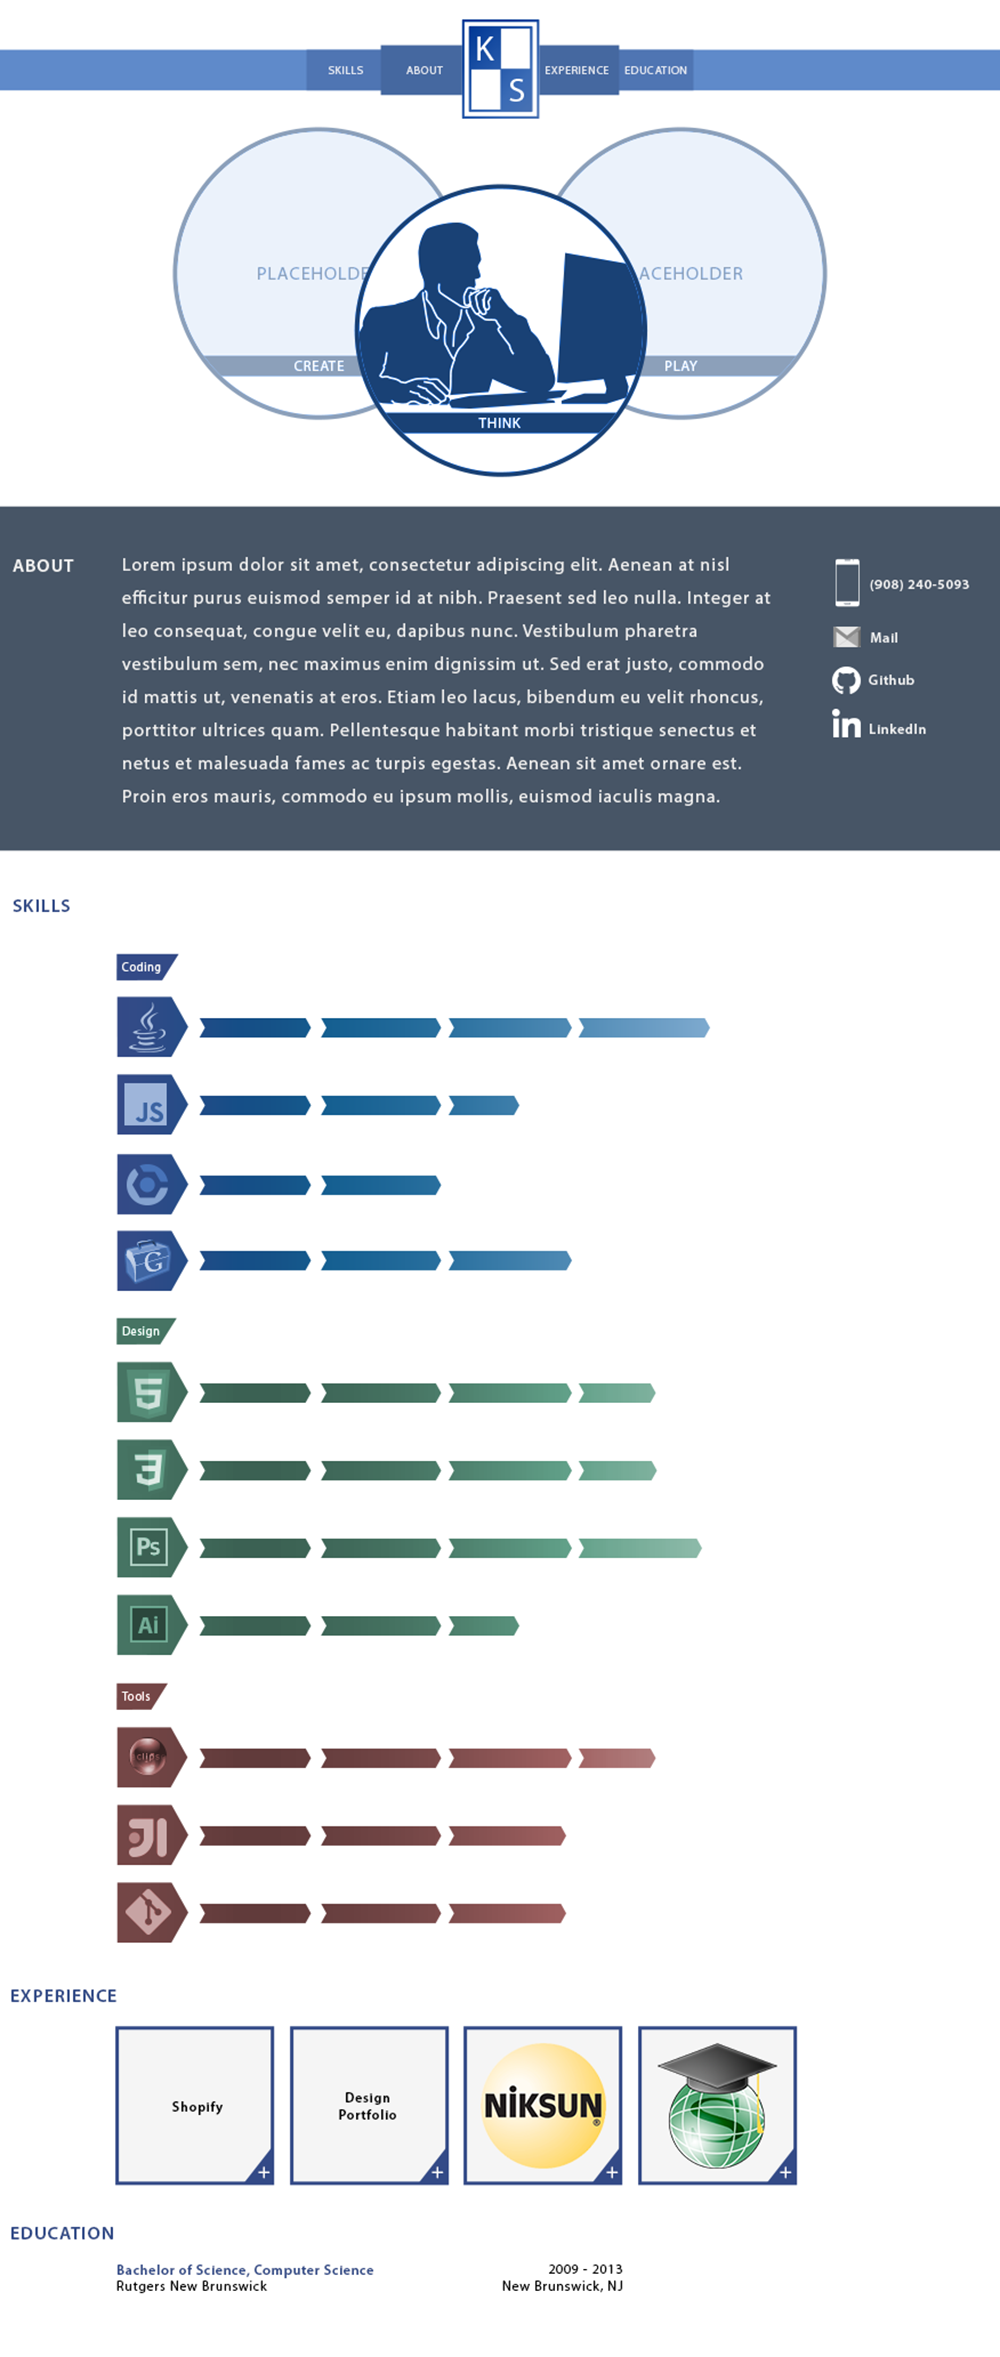
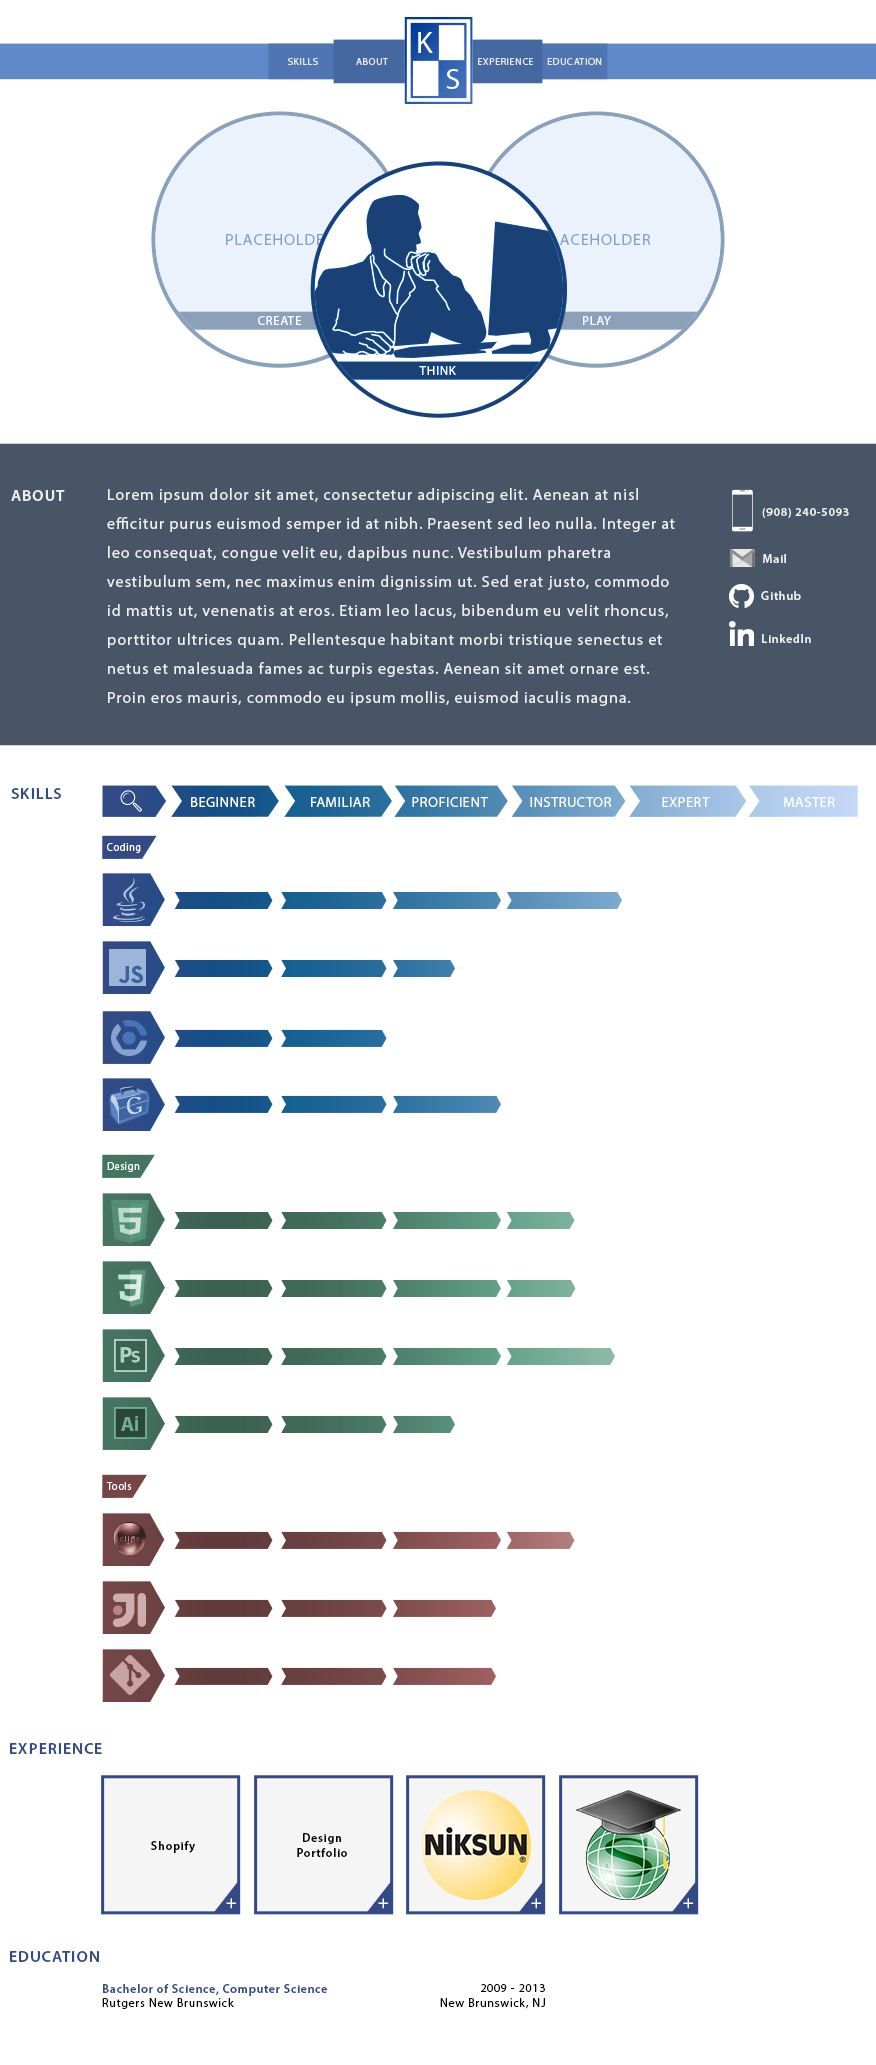
Added commenting across template.scss Additional minor changes

diff --git a/scss/template.scss b/scss/template.scss
@@ -28,9 +28,10 @@
 /*===END Temporary Rules===*/
 
 $nav-height: rem-calc(41px);
+$white: #EAEAEA;
 
 #nav {
-  color: white;
+  color: $white;
 
   .logo {
     width: rem-calc(78px);
@@ -42,7 +43,6 @@ $nav-height: rem-calc(41px);
     @include justify-content(center);
 
     font-size: rem-calc(11px);
-    text-transform: uppercase;
 
     //Override foundation
     margin: 0;
@@ -93,9 +93,11 @@ $nav-height: rem-calc(41px);
   position: relative;
 
   .slide {
+    //Hide slides in back
     background-color: white;
 
     border: rem-calc(5px) solid rgb(21, 61, 113);
+    //Shape slide into a circle
     border-radius: 50%;
 
     width: rem-calc(294px);
@@ -107,16 +109,18 @@ $nav-height: rem-calc(41px);
     .content {
       width: 100%;
 
-      transform: translate(-50%, 0);
+      //Center content
       position: absolute;
+      transform: translate(-50%, 0);
       bottom: rem-calc(20px);
       left: 50%;
     }
 
     .tag-line {
-      color: white;
+      //Override content
+      color: $white;
+      font-size: rem-calc(13px);
       text-align: center;
-      text-transform: uppercase;
 
       height: rem-calc(20px);
 
@@ -145,6 +149,7 @@ $nav-height: rem-calc(41px);
 
   #think.slide {
     .content {
+      //Enlarge image to align to template
       width: rem-calc(318px);
 
       img {
@@ -168,18 +173,19 @@ $nav-height: rem-calc(41px);
 }
 
 #about {
-  color: white;
+  color: $white;
   background-color: rgb(71, 85, 102);
   padding-top: rem-calc(44px);
-  #{headings()} {
-    text-transform: uppercase;
-    color: white;
-  }
 
   p {
     margin-left: rem-calc(24px);
     margin-bottom: rem-calc(43px);
     font-size: rem-calc(20px);
+  }
+
+  #{headings()} {
+    //Override foundation
+    color: inherit;
   }
 
   .icons {
@@ -188,8 +194,11 @@ $nav-height: rem-calc(41px);
     flex-direction: column;
 
     a {
-      color: white;
+      //Override foundation
+      color: inherit;
       font-size: rem-calc(13px);
+
+      //Increase margin to align to template
       margin-bottom: rem-calc(18px);
     }
   }

diff --git a/template.html b/template.html
@@ -10,11 +10,11 @@
 <div id="container">
     <nav id="nav" class="row">
         <ul>
-            <li>Skills</li>
-            <li>About</li>
+            <li>SKILLS</li>
+            <li>ABOUT</li>
             <li class="logo"><img src="images/logo.svg" alt="logo"/></li>
-            <li>Experience</li>
-            <li>Education</li>
+            <li>EXPERIENCE</li>
+            <li>EDUCATION</li>
         </ul>
         <div class="background"></div>
     </nav>
@@ -24,28 +24,28 @@
             <div class="content">
                 <img src="images/about/think.svg" alt="think"/>
 
-                <p class="tag-line">Think</p>
+                <p class="tag-line">THINK</p>
             </div>
         </div>
         <div id="create" class="slide back left">
             <div class="content">
                 <img alt="Placeholder"/>
 
-                <p class="tag-line">Create</p>
+                <p class="tag-line">CREATE</p>
             </div>
         </div>
         <div id="play" class="slide back right">
             <div class="content">
                 <img alt="Placeholder"/>
 
-                <p class="tag-line">Play</p>
+                <p class="tag-line">PLAY</p>
             </div>
         </div>
     </section>
 
     <section id="about" class="row">
         <div class="small-1 column">
-            <h5>About</h5>
+            <h5>ABOUT</h5>
         </div>
         <div class="small-9 column">
             <p>
